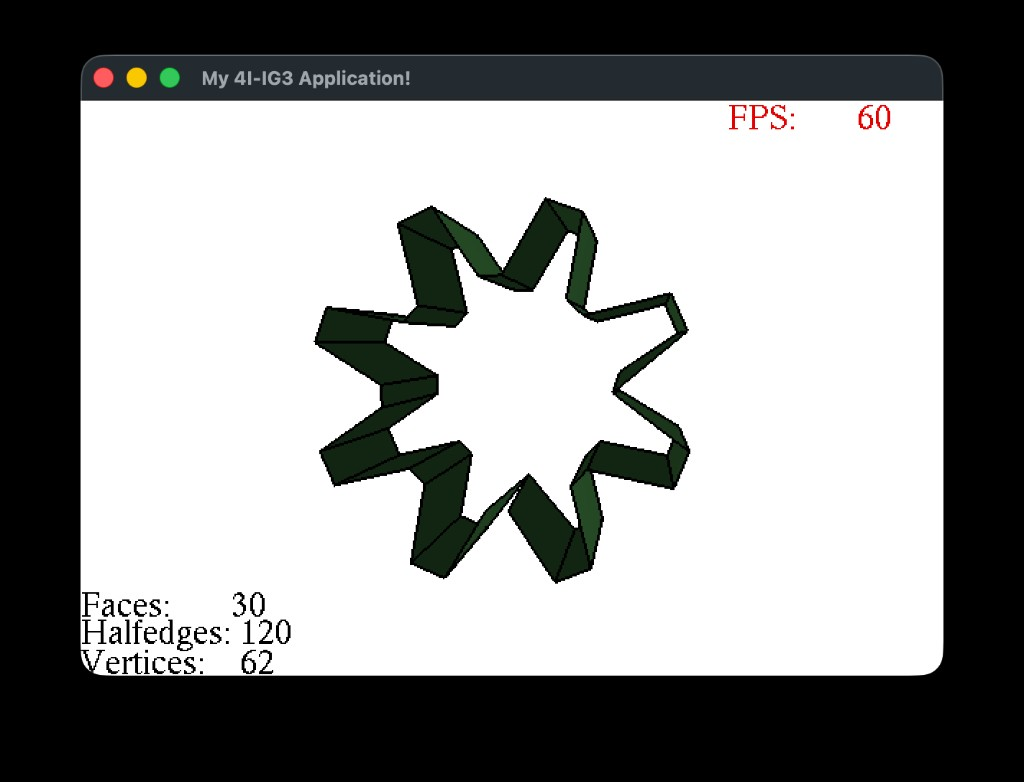
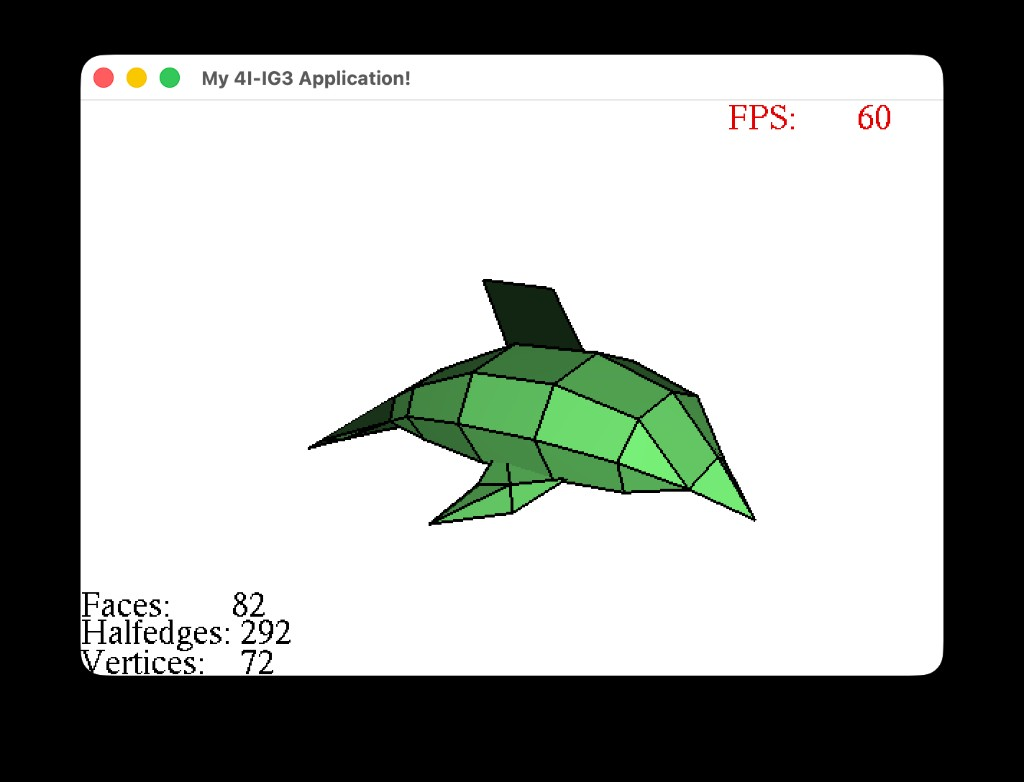
Correction de la simplification par edge collapse et raccourci clavier s

Changed region(s): [[0.3125, 0.2455, 0.75, 0.7673], [0.0625, 0.0614, 0.9375, 0.1535], [0.2188, 0.7366, 0.2812, 0.8593]]

diff --git a/myMesh.cpp b/myMesh.cpp
@@ -564,26 +564,26 @@ void myMesh::simplify()
 
 	if (shortest != NULL)
 	{
-		shortest->source->originof = shortest;
-		simplify(shortest->source);
+		collapseEdge(shortest);
+		checkMesh();
+		computeNormals();
 	}
 }
 
-void myMesh::simplify(myVertex *v)
+bool myMesh::collapseEdge(myHalfedge *h)
 {
-	if (v == NULL || v->originof == NULL) return;
+	if (h == NULL || h->twin == NULL) return false;
 
-	myHalfedge *h = v->originof;
-	if (h == NULL || h->twin == NULL) return;
+	myHalfedge *t = h->twin;
 
 	myVertex *A = h->source;
-	myVertex *B = h->twin->source;
+	myVertex *B = t->source;
 
-	if (A == NULL || B == NULL || A == B) return;
-	if (A->point == NULL || B->point == NULL) return;
+	if (A == NULL || B == NULL || A == B) return false;
+	if (A->point == NULL || B->point == NULL) return false;
 
 	myFace *f1 = h->adjacent_face;
-	myFace *f2 = h->twin->adjacent_face;
+	myFace *f2 = t->adjacent_face;
 
 	A->point->X = (A->point->X + B->point->X) / 2.0;
 	A->point->Y = (A->point->Y + B->point->Y) / 2.0;
@@ -591,17 +591,62 @@ void myMesh::simplify(myVertex *v)
 
 	for (unsigned int i = 0; i < halfedges.size(); i++)
 	{
-		if (halfedges[i] != NULL && halfedges[i]->source == B)
+		if (halfedges[i]->source == B)
 			halfedges[i]->source = A;
+	}
+
+	h->prev->next = h->next;
+	h->next->prev = h->prev;
+	if (f1 != NULL && f1->adjacent_halfedge == h) f1->adjacent_halfedge = h->next;
+
+	t->prev->next = t->next;
+	t->next->prev = t->prev;
+	if (f2 != NULL && f2->adjacent_halfedge == t) f2->adjacent_halfedge = t->next;
+
+	vector<myHalfedge *> dead;
+	vector<myFace *> deadFaces;
+
+	dead.push_back(h);
+	dead.push_back(t);
+
+	myHalfedge *a1 = h->next;
+	if (a1->next->next == a1)
+	{
+		myHalfedge *b1 = a1->next;
+		if (a1->twin != NULL) a1->twin->twin = b1->twin;
+		if (b1->twin != NULL) b1->twin->twin = a1->twin;
+		dead.push_back(a1);
+		dead.push_back(b1);
+		if (f1 != NULL) deadFaces.push_back(f1);
+	}
+
+	myHalfedge *a2 = t->next;
+	if (a2->next->next == a2)
+	{
+		myHalfedge *b2 = a2->next;
+		if (a2->twin != NULL) a2->twin->twin = b2->twin;
+		if (b2->twin != NULL) b2->twin->twin = a2->twin;
+		dead.push_back(a2);
+		dead.push_back(b2);
+		if (f2 != NULL) deadFaces.push_back(f2);
 	}
 
 	for (unsigned int i = 0; i < halfedges.size(); )
 	{
-		myHalfedge *e = halfedges[i];
+		bool remove = false;
 
-		if (e != NULL && (e->adjacent_face == f1 || e->adjacent_face == f2))
+		for (unsigned int j = 0; j < dead.size(); j++)
 		{
-			delete e;
+			if (halfedges[i] == dead[j])
+			{
+				remove = true;
+				break;
+			}
+		}
+
+		if (remove)
+		{
+			delete halfedges[i];
 			halfedges.erase(halfedges.begin() + i);
 		}
 		else
@@ -612,7 +657,18 @@ void myMesh::simplify(myVertex *v)
 
 	for (unsigned int i = 0; i < faces.size(); )
 	{
-		if (faces[i] == f1 || faces[i] == f2)
+		bool remove = false;
+
+		for (unsigned int j = 0; j < deadFaces.size(); j++)
+		{
+			if (faces[i] == deadFaces[j])
+			{
+				remove = true;
+				break;
+			}
+		}
+
+		if (remove)
 		{
 			delete faces[i];
 			faces.erase(faces.begin() + i);
@@ -634,57 +690,16 @@ void myMesh::simplify(myVertex *v)
 
 	delete B;
 
-	for (unsigned int i = 0; i < halfedges.size(); i++)
-	{
-		if (halfedges[i] != NULL)
-			halfedges[i]->twin = NULL;
-	}
-
-	map<pair<myVertex *, myVertex *>, myHalfedge *> twin_map;
-
-	for (unsigned int i = 0; i < halfedges.size(); i++)
-	{
-		myHalfedge *e = halfedges[i];
-
-		if (e == NULL || e->source == NULL || e->next == NULL || e->next->source == NULL)
-			continue;
-
-		myVertex *src = e->source;
-		myVertex *dst = e->next->source;
-
-		pair<myVertex *, myVertex *> forward(src, dst);
-		pair<myVertex *, myVertex *> backward(dst, src);
-
-		if (twin_map.count(backward))
-		{
-			myHalfedge *twin = twin_map[backward];
-
-			e->twin = twin;
-			twin->twin = e;
-		}
-		else
-		{
-			twin_map[forward] = e;
-		}
-	}
-
 	for (unsigned int i = 0; i < vertices.size(); i++)
-	{
-		if (vertices[i] != NULL)
-			vertices[i]->originof = NULL;
-	}
+		vertices[i]->originof = NULL;
 
 	for (unsigned int i = 0; i < halfedges.size(); i++)
 	{
-		myHalfedge *e = halfedges[i];
-
-		if (e != NULL && e->source != NULL && e->source->originof == NULL)
-		{
-			e->source->originof = e;
-		}
+		if (halfedges[i]->source->originof == NULL)
+			halfedges[i]->source->originof = halfedges[i];
 	}
 
-	computeNormals();
+	return true;
 }
 
 void myMesh::generateRevolution()

diff --git a/helperFunctions.h b/helperFunctions.h
@@ -519,6 +519,9 @@ void keyboard(unsigned char key, int x, int y) {
 		glDeleteVertexArrays(10, &vaos[0]);
 		exit(0);
 		break;
+	case 's':
+		menu(MENU_SIMPLIFY);
+		break;
 	case 'm':
 		break;
 	case 'h':

diff --git a/myMesh.h b/myMesh.h
@@ -32,7 +32,7 @@ public:
 	void triangulateEarClipping();
 	void triangulateEarClipping(myFace *);
 	void simplify();
-	void simplify(myVertex *);
+	bool collapseEdge(myHalfedge *);
 
 	void generateRevolution();
 